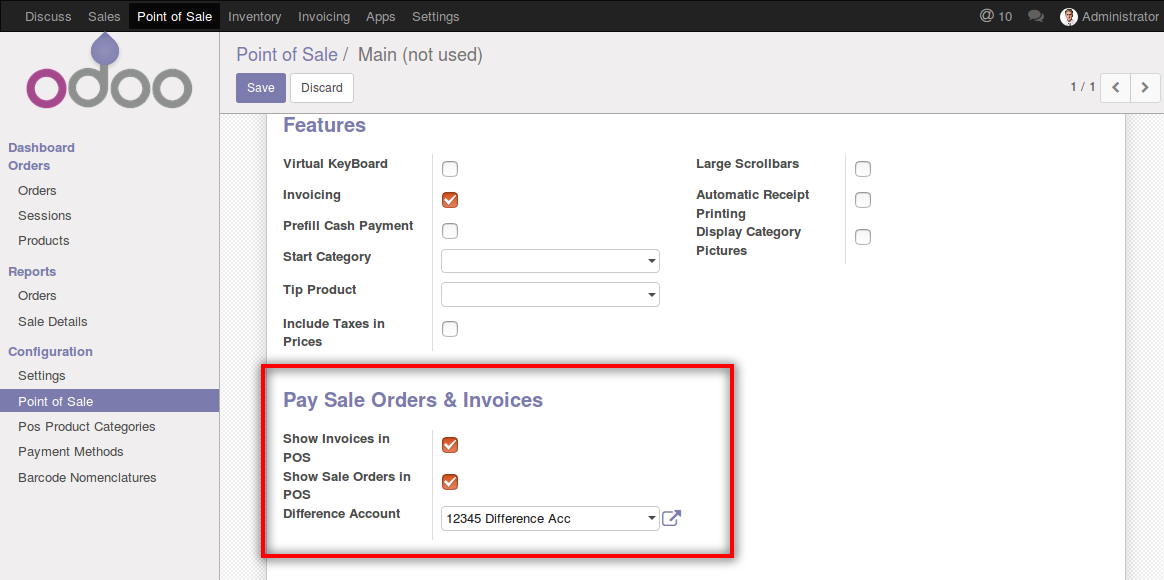
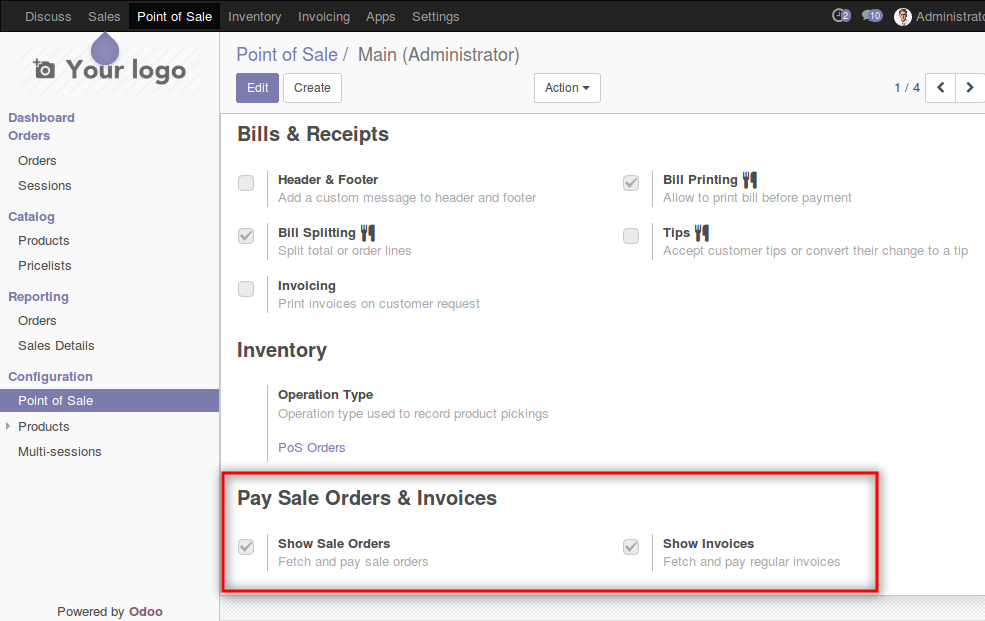
:book: doc updates

diff --git a/pos_invoice_pay/static/description/index.html b/pos_invoice_pay/static/description/index.html
@@ -207,15 +207,12 @@
 	    <li>
 	      <b>Show Invoices in POS</b> - enable/disable <b>Sale Invoices</b> button
 	    </li>
-	    <li>
-	      <b>Difference Account</b> - used for the difference between paid and due amount
-	    </li>
 	  </ul>
 	</font>
       </p>		
     </div>
     <div class="oe_screenshot" align="center">
-      <img style="max-width: 80%" src="pos_invoice_config.png"/>
+      <img style="max-width: 80%" src="pos_invoice_config.png?1"/>
     </div>
   </div>
 </section>
@@ -249,9 +246,9 @@
                             -o-transform: rotate(-6deg);
                             -moz-transform: rotate(-6deg);
                             -ms-transform: rotate(-6deg);">
-                    Tested on Odoo<br/>10.0 community
+                    Tested on Odoo<br/>11.0 community
                 </div>
-                <!-- <div style="margin-top: 15px;
+                <div style="margin-top: 15px;
                             position: relative;
                             font-family:'Vollkorn', serif;
                             font-size: 16px;
@@ -266,8 +263,8 @@
                             -o-transform: rotate(-7deg);
                             -moz-transform: rotate(-7deg);
                             -ms-transform: rotate(-7deg);">
-                    Tested on Odoo<br/>10.0 enterprise
-                </div> -->
+                    Tested on Odoo<br/>11.0 enterprise
+                </div> 
             </div>
         </div>
     </div>

diff --git a/pos_invoice_pay/README.rst b/pos_invoice_pay/README.rst
@@ -23,7 +23,7 @@ Maintainers
 -----------
 * `IT-Projects LLC <https://it-projects.info>`__
 
-      To get a guaranteed support you are kindly requested to purchase the module at `odoo apps store <https://apps.odoo.com/apps/modules/11.0/website_multi_company_sale/>`__.
+      To get a guaranteed support you are kindly requested to purchase the module at `odoo apps store <https://apps.odoo.com/apps/modules/11.0/pos_invoice_pay/>`__.
 
       Thank you for understanding!
 
@@ -32,9 +32,9 @@ Maintainers
 Further information
 ===================
 
-Demo: http://runbot.it-projects.info/demo/pos-addons/10.0
+Demo: http://runbot.it-projects.info/demo/pos-addons/11.0
 
-HTML Description: https://apps.odoo.com/apps/modules/10.0/pos_invoice_pay/
+HTML Description: https://apps.odoo.com/apps/modules/11.0/pos_invoice_pay/
 
 Usage instructions: `<doc/index.rst>`__
 
